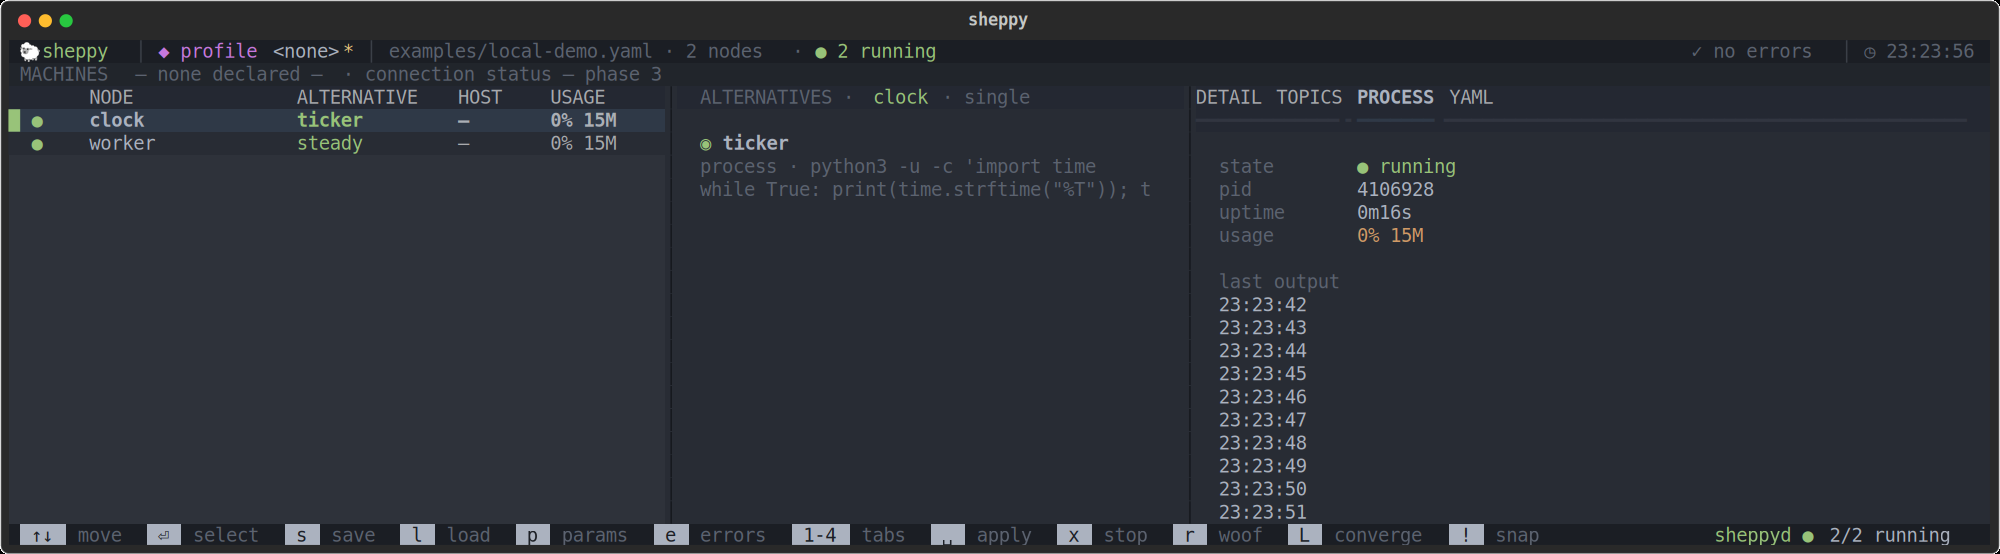
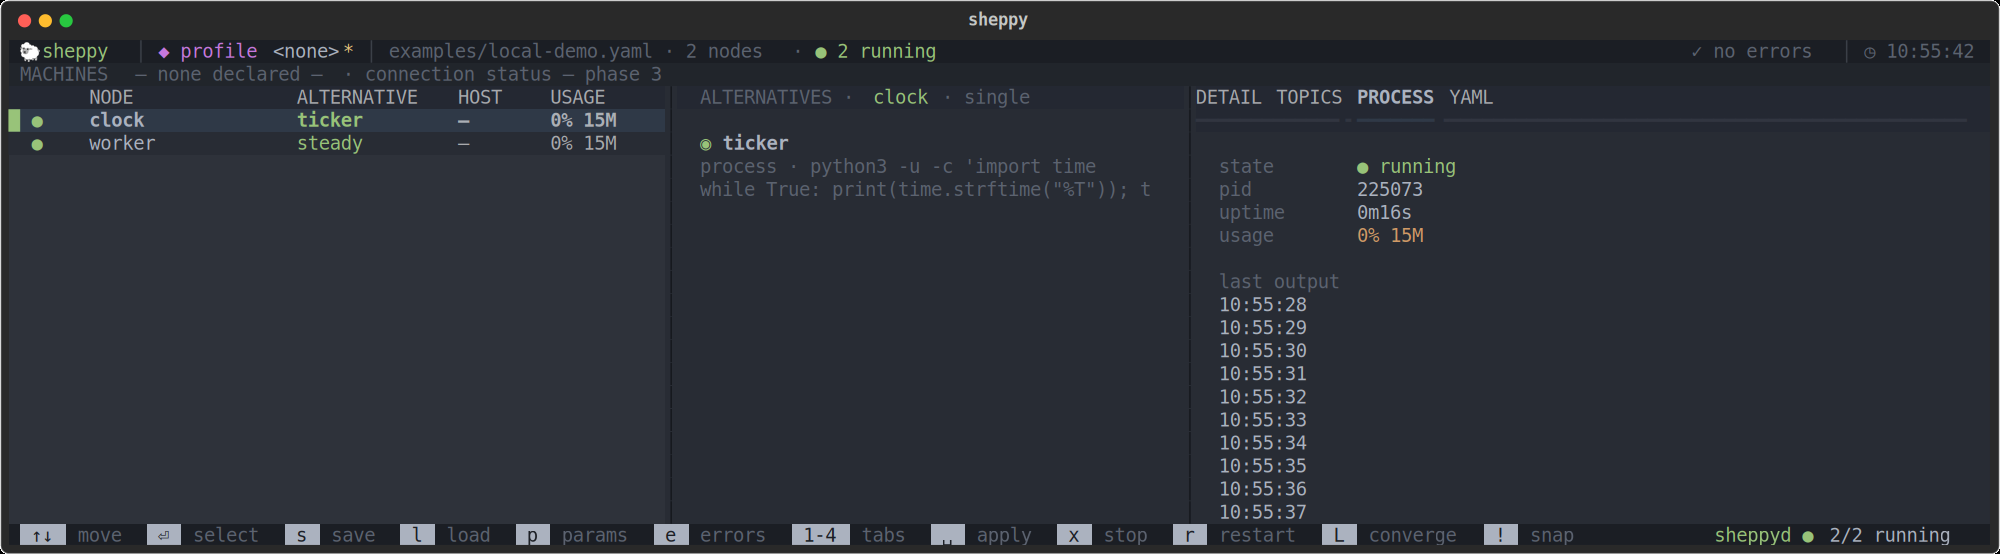
Issue triage: license, contributing guide, and small fixes (#36)
MIT license and contributing guide; ignore demo profiles; expand ~ in ros_setup; keep header state until its children exist; explain an unbindable socket path; exit with the error when the manifest can't be loaded; rename woof to restart (woof kept as an alias). Docs and screenshots updated.

Closes #12, closes #21, closes #22, closes #23, closes #26, closes #27, closes #32, closes #35.

Changed region(s): [[0.589, 0.5217, 0.806, 0.9819], [0.961, 0.0614, 0.992, 0.1227], [0.682, 0.3069, 0.713, 0.3682]]

diff --git a/sheppy/tui/widgets/header_bar.py b/sheppy/tui/widgets/header_bar.py
@@ -1,6 +1,7 @@
 from datetime import datetime
 
 from textual.containers import Horizontal
+from textual.css.query import NoMatches
 from textual.markup import escape
 from textual.widgets import Static
 
@@ -19,6 +20,13 @@ class HeaderBar(Horizontal):
     HeaderBar .hb-sep { color: $chip-border; margin: 0 1; }
     """
 
+    def __init__(self, *args, **kwargs) -> None:
+        super().__init__(*args, **kwargs)
+        # The latest state pushed by the app and not yet drawn. The app can
+        # push before this bar's children are mounted (#12); _tick draws it
+        # once they exist.
+        self._pending: "tuple | None" = None
+
     def compose(self):
         yield Static(c("green", "🐑 sheppy"), id="hb-brand")
         yield Static("│", classes="hb-sep")
@@ -35,21 +43,39 @@ class HeaderBar(Horizontal):
         self.set_interval(1.0, self._tick)
 
     def _tick(self) -> None:
-        self.query_one("#hb-clock", Static).update(
-            c("muted", f"◷ {datetime.now().strftime('%H:%M:%S')}"))
+        try:
+            clock = self.query_one("#hb-clock", Static)
+        except NoMatches:
+            return
+        clock.update(c("muted", f"◷ {datetime.now().strftime('%H:%M:%S')}"))
+        self._draw()
 
     def update_state(self, profile_name, dirty, path, node_count,
                      error_count, running: "int | None" = None) -> None:
+        self._pending = (profile_name, dirty, path, node_count, error_count,
+                         running)
+        self._draw()
+
+    def _draw(self) -> None:
+        if self._pending is None:
+            return
+        try:
+            profilebar = self.query_one("#profilebar", Static)
+            source_w = self.query_one("#hb-source", Static)
+            errors_w = self.query_one("#hb-errors", Static)
+        except NoMatches:
+            return
+        profile_name, dirty, path, node_count, error_count, running = self._pending
+        self._pending = None
         name = profile_name or "<none>"
         dirty_mark = c("yellow", "*") if dirty else ""
-        self.query_one("#profilebar", Static).update(
-            f"{c('purple', '◆ profile')} {escape(name)}{dirty_mark}")
+        profilebar.update(f"{c('purple', '◆ profile')} {escape(name)}{dirty_mark}")
         source = c("muted", f"{path or '<no file>'} · {node_count} nodes")
         if running is not None:
             source += f" {c('muted', '·')} {c('green', f'● {running} running')}"
-        self.query_one("#hb-source", Static).update(source)
+        source_w.update(source)
         if error_count:
             errtext = c("red", f"✕ {error_count} error(s)")
         else:
             errtext = c("muted", "✓ no errors")
-        self.query_one("#hb-errors", Static).update(errtext)
+        errors_w.update(errtext)

diff --git a/sheppy/cli.py b/sheppy/cli.py
@@ -1,12 +1,12 @@
 """Entry point: `sheppy <manifest>` opens the TUI; verbs (up/down/status/
-logs/woof/daemon) are headless and never import textual."""
+logs/restart/daemon) are headless and never import textual."""
 import argparse
 import asyncio
 import os
 import sys
 import time
 
-COMMANDS = {"up", "down", "status", "logs", "woof", "daemon"}
+COMMANDS = {"up", "down", "status", "logs", "restart", "woof", "daemon"}
 VERSION_FLAGS = {"--version", "-V"}
 
 DEFAULT_MANIFEST = "sheppy-manifest.yaml"
@@ -32,6 +32,10 @@ def main(argv: "list[str] | None" = None) -> int:
     if argv and argv[0] in COMMANDS:
         return _run_verb(argv)
     app = build_app(argv)
+    if app.manifest is None:            # nothing to browse, so say why (#27)
+        for e in app.load_result.errors:
+            print(f"sheppy: {e.message}", file=sys.stderr)
+        return 1
     app.run()
     return 0
 
@@ -48,14 +52,16 @@ def _build_parser() -> argparse.ArgumentParser:
     lg = sub.add_parser("logs", help="tail a node's output")
     lg.add_argument("node")
     lg.add_argument("-n", type=int, default=50)
-    wf = sub.add_parser("woof", help="restart a node")
-    wf.add_argument("node")
+    rs = sub.add_parser("restart", help="restart a node")
+    rs.add_argument("node")
     dm = sub.add_parser("daemon", help="daemon lifecycle")
     dm.add_argument("action", choices=["status", "stop"])
     return p
 
 
 def _run_verb(argv: list[str]) -> int:
+    if argv[0] == "woof":                # restart's old name (#21)
+        argv = ["restart", *argv[1:]]
     args = _build_parser().parse_args(argv)
     return asyncio.run(_dispatch(args))
 
@@ -88,12 +94,12 @@ async def _dispatch(args) -> int:
             for line in reply["lines"]:
                 print(line)
             return 0
-        if args.cmd == "woof":
+        if args.cmd == "restart":
             reply = await client.request("restart", node=args.node)
             if not reply["ok"]:
                 print(reply["error"], file=sys.stderr)
                 return 1
-            print(f"woof! restarted {args.node} 🐕")
+            print(f"restarted {args.node}")
             return 0
         # daemon status|stop
         if args.action == "status":
@@ -162,6 +168,11 @@ async def _up(args) -> int:
             continue
         desired[node.name] = spec
 
+    from sheppy.daemon.config import sheppy_home, socket_path_error
+    reason = socket_path_error(sheppy_home())
+    if reason:                          # the daemon couldn't bind it (#35)
+        print(f"could not start sheppyd: {reason}", file=sys.stderr)
+        return 1
     client = DaemonClient()
     if not await client.connect(spawn=True):
         print("could not start sheppyd", file=sys.stderr)

diff --git a/tests/daemon/test_socket_path.py b/tests/daemon/test_socket_path.py
@@ -1,0 +1,38 @@
+from sheppy.daemon import __main__ as daemon_main
+from sheppy.daemon.config import socket_path_error
+
+
+def long_home(tmp_path):
+    return tmp_path / ("a" * 60) / ("b" * 60)
+
+
+def test_short_home_has_no_error(tmp_path, monkeypatch):
+    monkeypatch.setenv("SHEPPY_HOME", str(tmp_path))
+    assert socket_path_error(str(tmp_path)) is None
+
+
+def test_long_home_is_reported(tmp_path, monkeypatch):
+    home = long_home(tmp_path)
+    monkeypatch.setenv("SHEPPY_HOME", str(home))
+    err = socket_path_error(str(home))
+    assert err is not None
+    assert "use a shorter SHEPPY_HOME" in err
+
+
+def test_daemon_refuses_a_socket_path_it_cannot_bind(tmp_path, monkeypatch, capsys):
+    home = long_home(tmp_path)
+    monkeypatch.setenv("SHEPPY_HOME", str(home))
+    assert daemon_main.main([]) == 1
+    assert "socket path is" in capsys.readouterr().err
+
+
+def test_up_explains_a_socket_path_it_cannot_bind(tmp_path, monkeypatch, capsys):
+    from sheppy import cli
+    monkeypatch.setenv("SHEPPY_HOME", str(long_home(tmp_path)))
+    manifest = tmp_path / "sheppy-manifest.yaml"
+    manifest.write_text("nodes:\n  - name: n\n    alternatives:\n"
+                        "      - id: a\n        kind: process\n        command: sleep 1\n")
+    (tmp_path / "profiles").mkdir()
+    (tmp_path / "profiles" / "p.yaml").write_text("selections:\n  n: a\n")
+    assert cli.main(["up", "p", "--manifest", str(manifest)]) == 1
+    assert "could not start sheppyd: socket path is" in capsys.readouterr().err

diff --git a/tests/cli/test_verbs.py b/tests/cli/test_verbs.py
@@ -106,14 +106,16 @@ def test_up_skips_node_whose_launcher_raises(site, capsys, monkeypatch):
     assert "camera: running" in captured.out
 
 
-def test_status_and_woof_and_logs(site, capsys):
+def test_status_and_restart_and_logs(site, capsys):
     cli.main(["up", "cam-only", "--manifest", str(site / "system.yaml")])
     capsys.readouterr()
     assert cli.main(["status"]) == 0
     first = capsys.readouterr().out
     assert "camera" in first and "running" in first
-    assert cli.main(["woof", "camera"]) == 0
-    capsys.readouterr()
+    assert cli.main(["restart", "camera"]) == 0
+    assert "restarted camera" in capsys.readouterr().out
+    assert cli.main(["woof", "camera"]) == 0     # old name still works (#21)
+    assert "restarted camera" in capsys.readouterr().out
     assert cli.main(["logs", "camera", "-n", "5"]) == 0
 
 
@@ -129,7 +131,7 @@ def test_down_stops_everything_and_daemon(site, capsys):
 def test_verbs_without_daemon_are_graceful(site, capsys):
     assert cli.main(["status"]) == 0
     assert "not running" in capsys.readouterr().out
-    assert cli.main(["woof", "camera"]) == 1
+    assert cli.main(["restart", "camera"]) == 1
 
 
 def test_unknown_profile_errors(site, capsys):

diff --git a/tests/tui/test_header_bar.py b/tests/tui/test_header_bar.py
@@ -1,0 +1,32 @@
+from textual.app import App
+from textual.widgets import Static
+
+from sheppy.tui.widgets.header_bar import HeaderBar
+from sheppy.tui.widgets.theme import SHEPPY_DARK
+
+
+def test_update_state_before_children_exist_does_not_raise():
+    # The app can push state before the bar's children are mounted (#12).
+    bar = HeaderBar()
+    bar.update_state("demo", True, "m.yaml", 2, 0)
+    assert bar._pending is not None
+
+
+async def test_state_pushed_early_is_drawn_once_children_mount():
+    bar = HeaderBar()
+    bar.update_state("demo", True, "m.yaml", 2, 0)
+
+    class Host(App):
+        def __init__(self):
+            super().__init__()
+            self.register_theme(SHEPPY_DARK)    # defines $chip-border
+            self.theme = SHEPPY_DARK.name
+
+        def compose(self):
+            yield bar
+
+    async with Host().run_test() as pilot:
+        await pilot.pause()
+        text = str(bar.query_one("#profilebar", Static).render())
+        assert "demo" in text
+        assert bar._pending is None

diff --git a/tests/launch/test_builtins.py b/tests/launch/test_builtins.py
@@ -51,3 +51,14 @@ def test_injection_still_escaped(tmp_path):
     import shlex
     tokens = shlex.split(cmd(desc))
     assert "touch" not in tokens                # trapped inside one quoted token
+
+
+def test_ros_setup_expands_home(tmp_path, monkeypatch):
+    # A quoted '~' is never expanded by bash, so sheppy must do it (#32).
+    monkeypatch.setenv("HOME", "/home/me")
+    ws = Machine(name="ws", host="h", user="u", ros_setup="~/ws/install/setup.bash")
+    alt = Alternative(id="a", kind="executable", machine="ws",
+                      package="p", executable="e")
+    c = ctx(tmp_path, Manifest(machines=[ws], nodes=[]))
+    text = cmd(ExecutableLauncher().launch(alt, {}, c))
+    assert text.startswith("source /home/me/ws/install/setup.bash && ")

diff --git a/sheppy/daemon/config.py b/sheppy/daemon/config.py
@@ -69,6 +69,21 @@ def socket_path(home: str) -> str:
     return os.path.join(home, "sheppyd.sock")
 
 
+# sun_path holds 108 bytes on Linux, including the terminating NUL.
+MAX_SOCKET_PATH = 107
+
+
+def socket_path_error(home: str) -> "str | None":
+    """Why the daemon socket can't be bound here, or None. Binding an
+    over-long path fails before sheppyd can log anything (#35)."""
+    path = socket_path(home)
+    size = len(os.fsencode(path))
+    if size <= MAX_SOCKET_PATH:
+        return None
+    return (f"socket path is {size} bytes, over the {MAX_SOCKET_PATH}-byte "
+            f"limit for unix sockets: {path} (use a shorter SHEPPY_HOME)")
+
+
 def state_path(home: str) -> str:
     return os.path.join(home, "sheppyd.state.json")
 

diff --git a/sheppy/daemon/__main__.py b/sheppy/daemon/__main__.py
@@ -7,7 +7,7 @@ import sys
 import time
 
 from sheppy.daemon.config import (
-    daemon_log_path, load_config, lock_path, sheppy_home,
+    daemon_log_path, load_config, lock_path, sheppy_home, socket_path_error,
 )
 from sheppy.daemon.server import Server
 
@@ -37,6 +37,11 @@ def main(argv: "list[str] | None" = None) -> int:
     home = sheppy_home()
     os.makedirs(home, mode=0o700, exist_ok=True)
     cfg, warnings = load_config(home)
+    err = socket_path_error(home)
+    if err:
+        print(f"sheppyd: {err}", file=sys.stderr)
+        _log(cfg, err)
+        return 1
     lock = open(lock_path(home), "w")
     try:
         fcntl.flock(lock, fcntl.LOCK_EX | fcntl.LOCK_NB)

diff --git a/sheppy/launch/builtins.py b/sheppy/launch/builtins.py
@@ -1,6 +1,7 @@
 """The three original kinds, now launchers emitting inherit descriptors.
 Command strings are byte-identical to the pre-plugin resolver."""
 import json
+import os
 import shlex
 
 from sheppy.launch.descriptor import LaunchDescriptor
@@ -27,7 +28,7 @@ def _ros_setup(manifest, machine_name):
 def _wrap(manifest, alt, cmd):
     setup = _ros_setup(manifest, alt.machine)
     if setup:
-        cmd = f"source {shlex.quote(setup)} && {cmd}"
+        cmd = f"source {shlex.quote(os.path.expanduser(setup))} && {cmd}"
     return LaunchDescriptor.inherit(("bash", "-c", cmd))
 
 

diff --git a/sheppy/tui/app.py b/sheppy/tui/app.py
@@ -155,7 +155,10 @@ class SheppyApp(App):
         if self.daemon_connected:
             return True
         if not await self._daemon_connect(spawn=True):
-            self._append_warnings(["could not start sheppyd"])
+            from sheppy.daemon.config import sheppy_home, socket_path_error
+            reason = socket_path_error(sheppy_home())
+            self._append_warnings([f"could not start sheppyd: {reason}"
+                                   if reason else "could not start sheppyd"])
             return False
         return True
 

diff --git a/tests/cli/test_open_manifest.py b/tests/cli/test_open_manifest.py
@@ -1,0 +1,13 @@
+from sheppy import cli
+
+
+def test_missing_manifest_exits_with_error(capsys):
+    assert cli.main(["/no/such/file.yaml"]) == 1
+    assert "manifest not found: /no/such/file.yaml" in capsys.readouterr().err
+
+
+def test_invalid_yaml_exits_with_error(tmp_path, capsys):
+    bad = tmp_path / "sheppy-manifest.yaml"
+    bad.write_text("nodes: [unclosed\n")
+    assert cli.main([str(bad)]) == 1
+    assert "invalid YAML" in capsys.readouterr().err

diff --git a/sheppy/tui/widgets/status_footer.py b/sheppy/tui/widgets/status_footer.py
@@ -15,7 +15,7 @@ KEYMAP = [
     ("1-4", "tabs"),
     ("␣", "apply"),
     ("x", "stop"),
-    ("r", "woof"),
+    ("r", "restart"),
     ("L", "converge"),
     ("!", "snap"),
 ]
